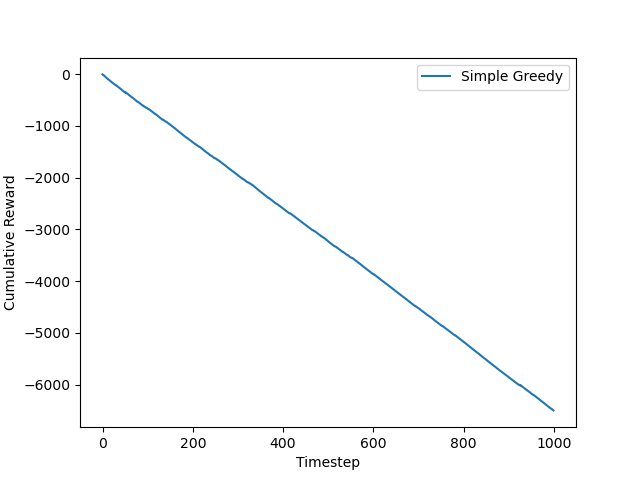
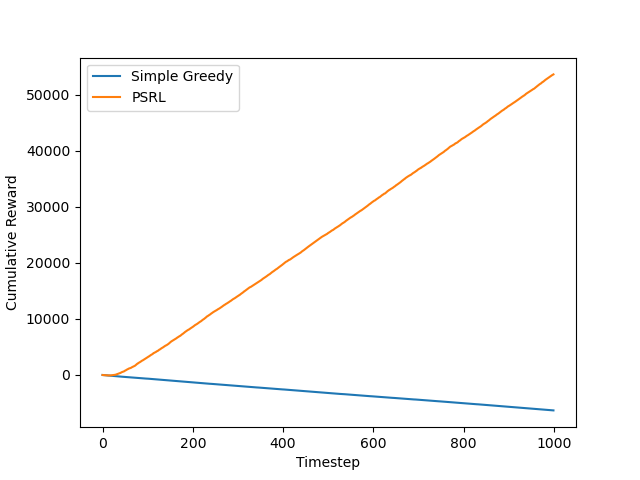
implemented mdp and PSRL

diff --git a/learners.py b/learners.py
@@ -89,7 +89,7 @@ class SimpleGreedyLearner(RLAgent):
 
 
     def episodeStart(self):
-        pass # is this right?
+        pass # is this right? yes
 
     # No need to change this one
     def maxSupportedActions(self):
@@ -99,23 +99,68 @@ class SimpleGreedyLearner(RLAgent):
 # Implement the version with alpha_i=1 (uniform)
 class PSRL(RLAgent):
     def __init__(self):
-        #YOUR CODE HERE
-        pass #remove once implemented
+        # Prior parameter alpha_i = 1 (uniform) for each outcome
+        self.alpha_i = 1
+        self.counts = None  # (s,a,o) -> count
+        self.policy = None
         
     def initWithEnvironment(self,env):
-        #YOUR CODE HERE
-        pass #remove and return True once implemented
+        self.env = env
+        self.counts = {}
+        # Initialize Dirichlet counts with prior alpha_i for every valid (s,a,o)
+        for state in self.env.getAllStates():
+            for action in range(self.env.getNumActions()):
+                if not self.env.isActionValid(state, action):
+                    continue
+                for outcome in range(self.env.getNumOutcomes()):
+                    self.counts[(state, action, outcome)] = self.alpha_i
+        self.policy = None
+        return True
         
     def chooseAction(self, state, t):
-        #YOUR CODE HERE
-        pass #remove once implemented
+        if self.policy is None:
+            # no policy yet, choose random valid action
+            validActions = []
+            for action in range(self.env.getNumActions()):
+                if self.env.isActionValid(state, action):
+                    validActions.append(action)
+            return random.choice(validActions)
+        else:
+            return self.policy[(state, t)]
         
     def processEpisode(self, episode):
-        #YOUR CODE HERE
-        pass #remove once implemented
+        # Update posterior counts with observed outcomes
+        for (state, action, outcome) in episode:
+            # Skip invalid (shouldn't happen if episode well-formed)
+            if not self.env.isActionValid(state, action):
+                continue
+            self.counts[(state, action, outcome)] += 1
+        
             
     def episodeStart(self):
-        pass # is this right?
+        # Sample a model from the current Dirichlet posteriors
+        obsProbs = {}
+        for state in self.env.getAllStates():
+            for action in range(self.env.getNumActions()):
+                if not self.env.isActionValid(state, action):
+                    continue
+                # Gather counts for (s,a,·)
+                outcomeCounts = [self.counts[(state, action, o)] for o in range(self.env.getNumOutcomes())]
+                # Sample Dirichlet by sampling gammas and normalizing
+                gammaSamples = []
+                for c in outcomeCounts:
+                    # shape=c, scale=1 gives Gamma(c,1)
+                    gammaSamples.append(random.gammavariate(c, 1.0))
+                total = sum(gammaSamples)
+                # Avoid division by zero (shouldn't occur because c>=1) but safeguard
+                if total == 0:
+                    probs = [1.0 / self.env.getNumOutcomes()] * self.env.getNumOutcomes()
+                else:
+                    probs = [g / total for g in gammaSamples]
+                obsProbs[(state, action)] = probs
+        # Build MDP with sampled transition outcome probabilities and compute optimal policy
+        sampledMDP = mdp.MDP(self.env, obsProbs)
+        self.policy = sampledMDP.computeOptimalPolicy()
 
     # No need to change this one
     def maxSupportedActions(self):

diff --git a/mdp.py b/mdp.py
@@ -29,8 +29,43 @@ class MDP:
     # Should return a dict mapping (s,t) --> a
     # Where a is the optimal long-term action to take in this MDP
     def computeOptimalPolicy(self):
-        #YOUR CODE HERE
-        pass #remove one implemented
+        policy = {}
+        V = {}
+        TimeHorizon = self.env.getTimeHorizon()
+        allStates = self.env.getAllStates()
+        numOutcomes = self.env.getNumOutcomes()
+        numActions = self.env.getNumActions()
+
+        # Backward induction
+        for t in range(TimeHorizon - 1, -1, -1):
+            for state in allStates:
+                bestAction = None
+                bestValue = None
+                for action in range(numActions):
+                    if not self.env.isActionValid(state, action):
+                        continue
+                    probs = self.obsProbs[(state, action)]
+                    actionValue = 0.0
+                    for outcome in range(numOutcomes):
+                        # immediate reward for this (s,a,o)
+                        immediateReward = self.env.getReward(state, action, outcome)
+                        # transition to next state (may be terminal/None)
+                        nextState = self.env.getNextState(state, action, outcome)
+                        futureValue = 0.0
+                        # Only add future value if there is a next state and time remains
+                        if nextState is not None and t < TimeHorizon - 1:
+                            futureValue = V.get((nextState, t + 1), 0.0)
+                        actionValue += probs[outcome] * (immediateReward + futureValue)
+                    if bestValue is None or actionValue > bestValue:
+                        bestValue = actionValue
+                        bestAction = action
+                # Record optimal action and value for (state, t)
+                policy[(state, t)] = bestAction
+                if bestValue is None:
+                    V[(state, t)] = 0.0
+                else:
+                    V[(state, t)] = bestValue
+        return policy
 
 
     def sampleOutcome(self, state, action):
